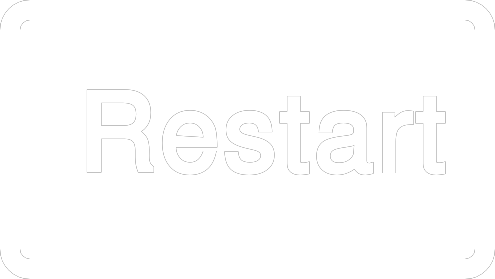
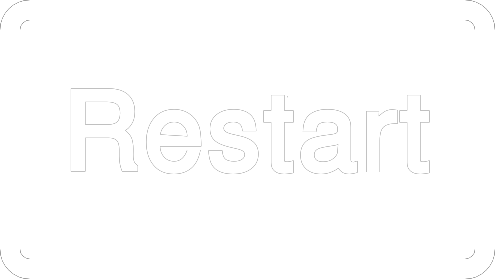
Add GUI menu

diff --git a/src/scenes/gui.ts b/src/scenes/gui.ts
@@ -1,6 +1,7 @@
 import {initButton} from "../util/functions"
 
 export class GuiScene extends Phaser.Scene {
+    private currentLevel: string;
 
     constructor() {
         super({
@@ -9,27 +10,60 @@ export class GuiScene extends Phaser.Scene {
         });
     }
 
+    init(data): void {
+        this.currentLevel = data.currentLevel;
+    }
+
     create(): void {
         const width = this.sys.game.canvas.width;
         const height = this.sys.game.canvas.height;
-        const levelKeys = ['Level1']
 
+        const restart = this.add.image(width / 2, height / 2, `restart`);
+        const continueGame = this.add.image(width / 2, height / 2 - 100, `continue`);
+        const exitGame = this.add.image(width / 2, height / 2 + 100, `exit`);
         const menu = this.add.image(width - 50, 40, 'menu');
+
+        restart.visible = false;
+        restart.setDisplaySize(0.1 * width, 0.1 * height);
+        initButton(restart);
+        restart.on('pointerdown', () => {
+            const currentScene = this.scene.get(this.currentLevel);
+            currentScene.scene.restart();
+            menu.visible = true;
+            continueGame.visible = false;
+            restart.visible = false;
+            exitGame.visible = false;
+        });
+
+        continueGame.visible = false;
+        continueGame.setDisplaySize(0.1 * width, 0.1 * height);
+        initButton(continueGame);
+        continueGame.on('pointerdown', () => {
+            this.scene.resume(this.currentLevel);
+            menu.visible = true;
+            continueGame.visible = false;
+            restart.visible = false;
+            exitGame.visible = false;
+        });
+
+        exitGame.visible = false;
+        exitGame.setDisplaySize(0.1 * width, 0.1 * height);
+        initButton(exitGame);
+        exitGame.on('pointerdown', () => {
+            this.scene.stop(this.currentLevel);
+            this.scene.stop('GuiScene');
+            this.scene.start('MainMenu');
+        });
+
         menu.setDisplaySize(0.05 * width, 0.05 * height);
         initButton(menu);
         menu.on('pointerdown', () => {
-            for (const levelKey of levelKeys) {
-                this.scene.pause(levelKey);
-            }
+            this.scene.pause(this.currentLevel);
+            menu.visible = false;
+            continueGame.visible = true;
+            restart.visible = true;
+            exitGame.visible = true;
         });
-
-        // const restart = this.add.image(width - 200, 20, `restart`);
-        // restart.setDisplaySize(0.1 * width, 0.1 * height);
-        // initButton(restart);
-        // restart.on('pointerdown', () => {
-        //     const mainMenu = this.scene.get('MainMenu');
-        //     mainMenu.scene.restart();
-        // });
     }
 
 }

diff --git a/src/scenes/main-menu.ts b/src/scenes/main-menu.ts
@@ -31,7 +31,7 @@ export class MainMenu extends Phaser.Scene {
         initButton(levels);
         levels.on('pointerdown', () => {
             this.scene.stop('MainMenu');
-            this.scene.start('Gui');
+            this.scene.start('Gui', {currentLevel: 'Level1'});
             this.scene.start('Level1');
         });
 
@@ -40,7 +40,7 @@ export class MainMenu extends Phaser.Scene {
         initButton(settings);
         settings.on('pointerdown', () => {
             this.scene.stop('MainMenu');
-            this.scene.start('Gui');
+            this.scene.start('Gui', {currentLevel: 'Level1'});
             this.scene.start('Level1');
         });
         generateSheeps(10, this.physics, width, height);

diff --git a/src/util/functions.ts b/src/util/functions.ts
@@ -12,10 +12,10 @@ export function randomInt(min, max): number{
     return Math.floor(Math.random() * (max - min + 1)) + min;
  }
 
- export function generateSheeps(amount, physics, width, heigth): void{
+ export function generateSheeps(amount, physics, width, height): void{
     let counter = 0;
     while (counter < amount){
-        const sheep = physics.add.image(randomInt(0, width), randomInt(0, heigth), 'sheep_small');
+        const sheep = physics.add.image(randomInt(0, width), randomInt(0, height), 'sheep_small');
         sheep.setVelocity(randomInt(50, 200), randomInt(50, 200));
         sheep.setBounce(1, 1);
         sheep.setCollideWorldBounds(true);
